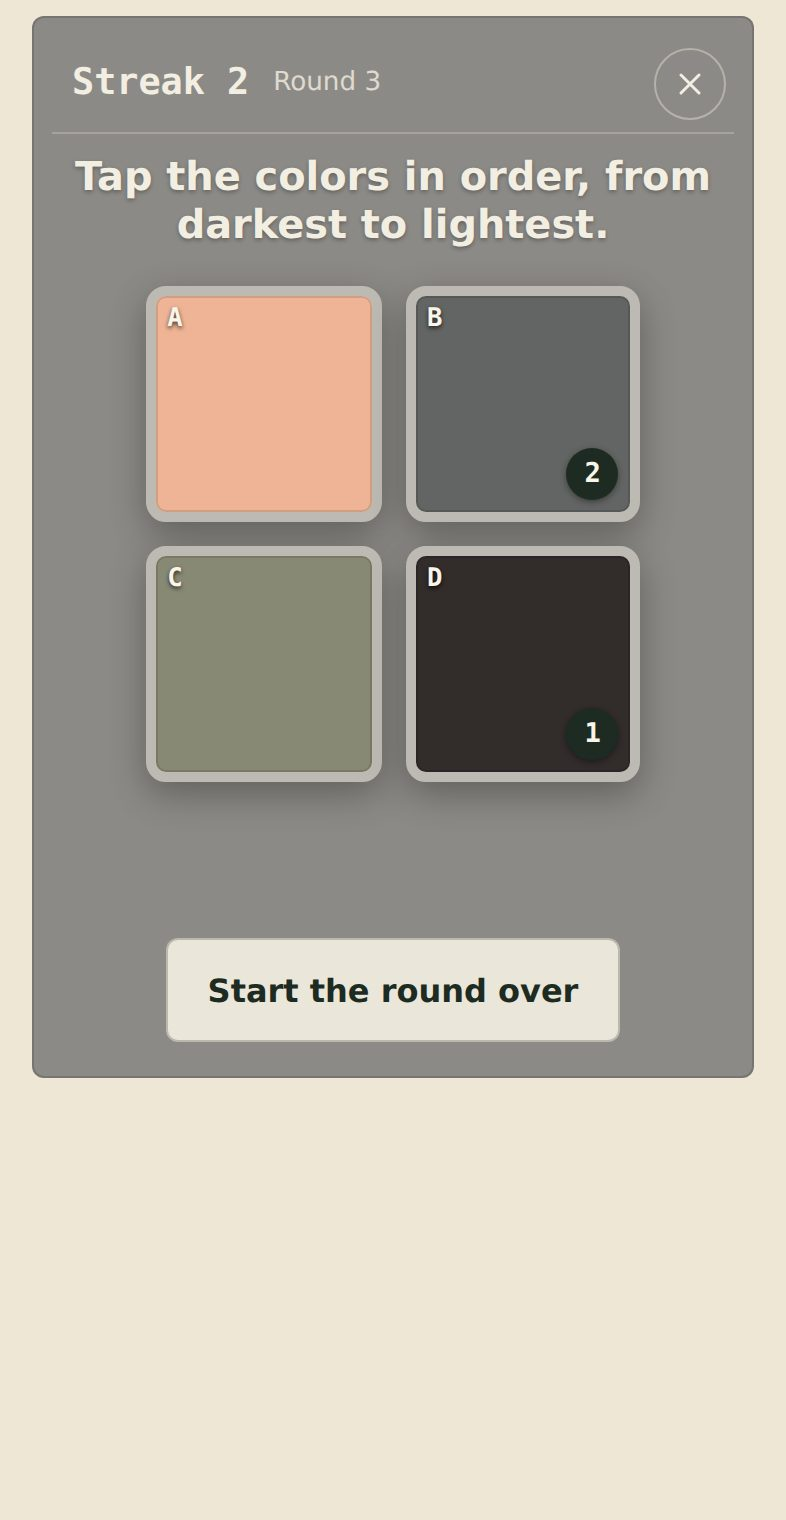
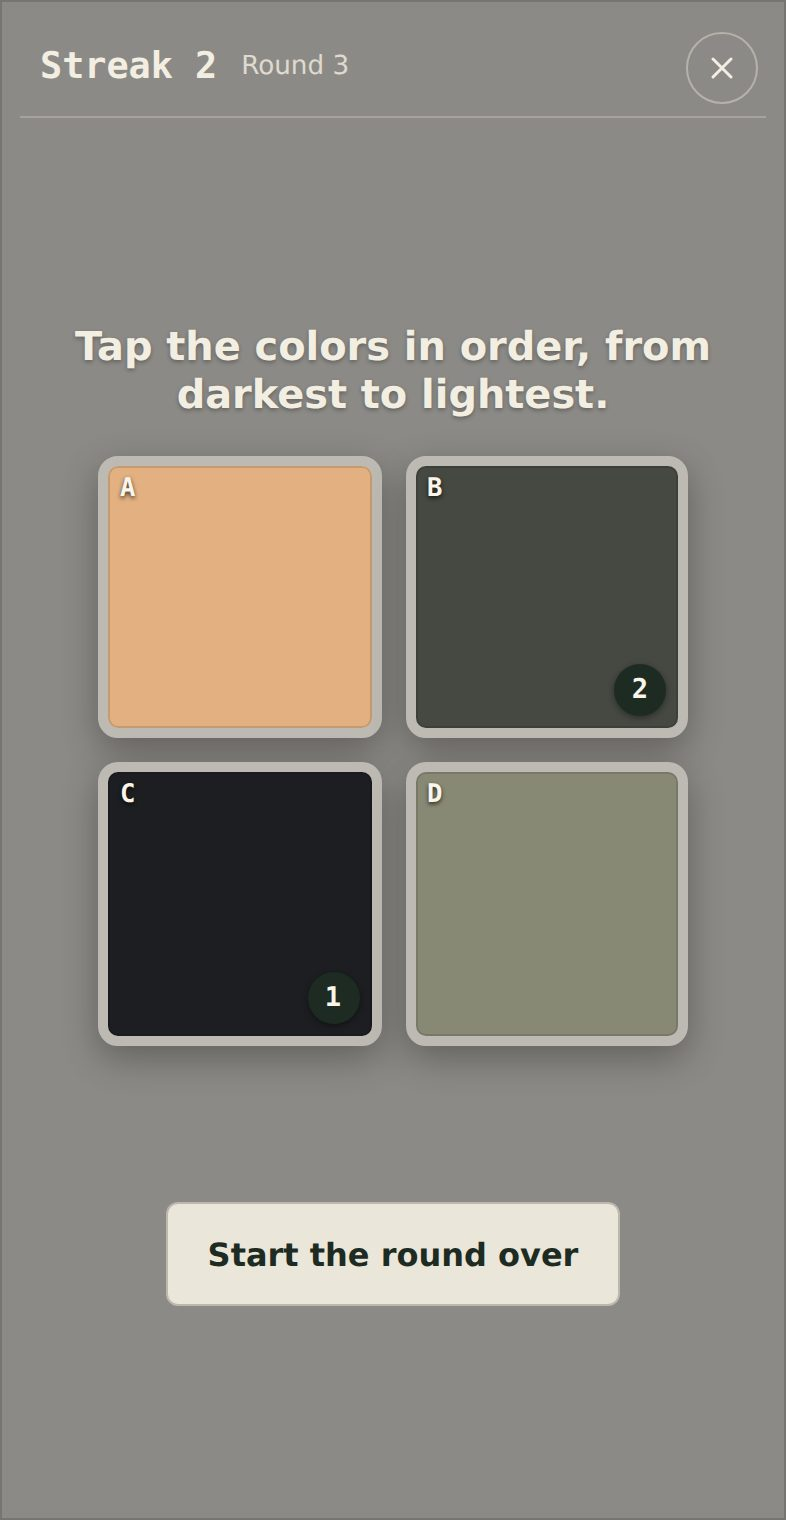
Value battle: pin the board to one screen while a game is on
The gray board now fills the phone screen (the window below the sections
on desktop) for every round, two to four colors alike, instead of growing
and shrinking with its content. Swatches get a height cap so a 2x2 round
fits on short phones. Guide screenshots retaken.

Claude-Session: https://claude.ai/code/session_01XVREo3r8Hxw4H8arPAzQN1

diff --git a/styles.css b/styles.css
@@ -1523,7 +1523,11 @@ output { font: 500 0.8rem var(--mono); color: var(--muted); font-variant-numeric
 /* ---- Value battle: one primer-gray board holds the bar, the colors and the answers ---- */
 .vb-about h3 { margin: 0; font: 700 1rem var(--display); }
 .vb-play { display: grid; max-width: 760px; margin-inline: auto; }
-.vb-board { position: relative; display: grid; grid-template-rows: auto 1fr; gap: 10px; min-height: min(72vh, 600px); padding: 10px 14px 18px; background: #8c8a86; border-radius: var(--r); box-shadow: inset 0 0 0 1px rgba(0, 0, 0, 0.15); }
+/* pinned while a game is on: the board fills one screen */
+.vb-play.is-pinned { position: fixed; left: 0; top: 0; z-index: 20; max-width: none; margin: 0; grid-template-rows: minmax(0, 1fr); }
+.vb-play.is-pinned .vb-board { min-height: 0; height: 100%; overflow: hidden; }
+.battle-focus { overflow: hidden; }
+.vb-board { position: relative; display: grid; grid-template-rows: auto minmax(0, 1fr); gap: 10px; min-height: min(72vh, 600px); padding: 10px 14px 18px; background: #8c8a86; border-radius: var(--r); box-shadow: inset 0 0 0 1px rgba(0, 0, 0, 0.15); }
 .vb-stage { display: grid; gap: 18px; justify-items: center; align-content: center; min-width: 0; }
 .vb-bar { justify-self: stretch; display: flex; align-items: center; gap: 12px; padding: 6px 4px 6px 10px; border-bottom: 1px solid rgba(243, 238, 226, 0.25); color: #f3eee2; }
 .vb-round { font: 700 1.15rem/1 var(--mono); font-variant-numeric: tabular-nums; }
@@ -1541,9 +1545,9 @@ output { font: 500 0.8rem var(--mono); color: var(--muted); font-variant-numeric
 .vb-swatches[data-count="3"] { grid-template-columns: repeat(3, auto); }
 .vb-swatches[data-count="4"] { grid-template-columns: repeat(2, auto); }
 @media (min-width: 640px) { .vb-swatches[data-count="4"] { grid-template-columns: repeat(4, auto); } }
-.vb-swatch { appearance: none; position: relative; width: clamp(110px, 32vw, 190px); height: clamp(110px, 32vw, 190px); border-radius: 10px; border: 5px solid #bdbab4; padding: 0; cursor: pointer; box-shadow: inset 0 0 0 1px rgba(0, 0, 0, 0.12), 0 6px 18px rgba(0, 0, 0, 0.3); transition: transform 0.12s; }
-.vb-swatches[data-count="3"] .vb-swatch { width: clamp(90px, 26vw, 170px); height: clamp(90px, 26vw, 170px); }
-.vb-swatches[data-count="4"] .vb-swatch { width: clamp(100px, 30vw, 140px); height: clamp(100px, 30vw, 140px); }
+.vb-swatch { appearance: none; position: relative; width: min(clamp(110px, 38vw, 190px), 30vh); height: min(clamp(110px, 38vw, 190px), 30vh); border-radius: 10px; border: 5px solid #bdbab4; padding: 0; cursor: pointer; box-shadow: inset 0 0 0 1px rgba(0, 0, 0, 0.12), 0 6px 18px rgba(0, 0, 0, 0.3); transition: transform 0.12s; }
+.vb-swatches[data-count="3"] .vb-swatch { width: min(clamp(90px, 28vw, 170px), 26vh); height: min(clamp(90px, 28vw, 170px), 26vh); }
+.vb-swatches[data-count="4"] .vb-swatch { width: min(clamp(100px, 36vw, 150px), 24vh); height: min(clamp(100px, 36vw, 150px), 24vh); }
 .vb-swatch:active { transform: scale(0.97); }
 .vb-swatch:focus-visible { outline: 3px solid #faf5ea; outline-offset: 4px; }
 .vb-swatch.is-answer { border-color: #d9a441; box-shadow: inset 0 0 0 1px rgba(0, 0, 0, 0.12), 0 0 0 3px #d9a441, 0 6px 18px rgba(0, 0, 0, 0.3); }
@@ -1578,4 +1582,5 @@ output { font: 500 0.8rem var(--mono); color: var(--muted); font-variant-numeric
 .vb-choice.is-pulse { animation: vb-pulse-btn 0.3s ease-out; }
 @media (max-width: 999px) {
   .vb-board { min-height: 60vh; padding-inline: 10px; }
+  .vb-play.is-pinned .vb-board { border-radius: 0; padding-bottom: calc(14px + env(safe-area-inset-bottom, 0px)); }
 }

diff --git a/js/battle.js b/js/battle.js
@@ -425,7 +425,19 @@
     quitArmed = 0;
     els.settings.click();
   });
-  function setFocus(on) { document.body.classList.toggle('battle-focus', on); if (on) window.scrollTo(0, 0); }
+  // While a game is on, the board is pinned to the screen the Studio's way: the whole visual
+  // viewport on a phone, the window below the tabs on a wide screen. So it always fills one
+  // screen, whatever a round holds.
+  function setFocus(on) {
+    document.body.classList.toggle('battle-focus', on);
+    els.play.classList.toggle('is-pinned', on);
+    if (on) { window.scrollTo(0, 0); layout(); setTimeout(layout, 120); }
+    else els.play.style.cssText = '';
+  }
+  function layout() { if (!game || els.play.hidden || !window.PaintStudio) return; PaintStudio.pin(els.play); }
+  window.addEventListener('resize', layout);
+  window.addEventListener('orientationchange', () => setTimeout(layout, 60));
+  if (window.visualViewport) { visualViewport.addEventListener('resize', layout); visualViewport.addEventListener('scroll', layout); }
 
   // the Paint by numbers "spot on" chime for a right answer
   function ding() { if (window.GameSound) GameSound.chime(); }
@@ -433,7 +445,7 @@
   els.start.addEventListener('click', start);
   window.addEventListener('studio:tab', (e) => {
     const on = e.detail === 'battle';
-    setFocus(on && !!game && !game.over);
+    setFocus(on && !!game);
     if (on && !game) renderSetup();
   });
   if (Studio.tab() === 'battle') renderSetup();

diff --git a/README.md b/README.md
@@ -104,7 +104,7 @@ The score is out of 1,200. Color accuracy gives up to 1,000: each number scores 
 
 ### Value battle
 
-The second game, under Games, trains the eye. Two, three or four colors mixed from the chosen palette (two or three of its paints with some white, in random parts) sit as squares with gray borders on a primer-gray board. With two, a question asks which is darker in value, lighter in value, cooler in tone or warmer in tone: tap the color (or use the arrow keys), or press the one button that says both are the same. Everything lives on the board: the streak, round and clock along its top with the quit button, the colors, the answer line, and the answer row below the colors. With three or four, the swatches are lettered and the question is answered on them: tap the color with the darkest value, tap the lightest, or tap them in order from darkest to lightest (each tap numbers a swatch; Start the round over clears them). The setup chooses two, three, four or a mix. The rounds keep coming, each a little harder than the last. In **Streak** mode the first miss ends the game and the score is the streak, counted up in the bar with a flourish every five. On the **clock** (1, 2 or 5 minutes) the score is how many were right before time ran out; a right answer moves on by itself, and a miss only costs the time it takes to read the answer, since the clock pauses while it is shown. Either way a miss pops up the right answer in words, with the colors laid out in order (darkest to lightest for a value question) and their values or leans under them. Value is lightness (L*), shown on the Study tab's 0 to 10 value scale; temperature is the hue, measured as how far it sits from the warmest hue (orange), so a color leaning toward orange and yellow is warm and one leaning toward blue is cool, and colors too gray to have a temperature never get a temperature question. How far apart the colors are follows the round: the first round is easy (at least 14 L* apart in value, or clearly different in temperature, with 12 L* between neighbours in a three- or four-color round), by round 24 it is a hair apart (2.5 to 6 L*, a few degrees of hue, 3.5 L* between neighbours), and it keeps closing in after that, down to a floor the eye can still tell apart. Some rounds are a tie, paired so the colors really are the same in what is asked (equal value but different colors, or the same lean but different values), and Both the same is the right answer. Every tap pulses the swatch or button and clicks like a key on the Paint by numbers palette, a right answer gets that game's chime, and the game's sound switch covers both. After each answer a line explains it with the values or the leans. When the streak ends the score pops up as in Paint by numbers, with stars by the streak (five at 20, four at 12, three at 8, two at 5, one at 2) or, on the clock, by right answers a minute (five at 10, four at 7, three at 5, two at 3, one at 1), and the best for each palette, color count and mode kept in the browser.
+The second game, under Games, trains the eye. Two, three or four colors mixed from the chosen palette (two or three of its paints with some white, in random parts) sit as squares with gray borders on a primer-gray board. With two, a question asks which is darker in value, lighter in value, cooler in tone or warmer in tone: tap the color (or use the arrow keys), or press the one button that says both are the same. Everything lives on the board: the streak, round and clock along its top with the quit button, the colors, the answer line, and the answer row below the colors. While a game is on, the board is pinned to the screen like the Studio's paper, so it always fills one phone screen (and the window below the sections on a wide screen) whatever the round holds, and the colors are sized to fit. With three or four, the swatches are lettered and the question is answered on them: tap the color with the darkest value, tap the lightest, or tap them in order from darkest to lightest (each tap numbers a swatch; Start the round over clears them). The setup chooses two, three, four or a mix. The rounds keep coming, each a little harder than the last. In **Streak** mode the first miss ends the game and the score is the streak, counted up in the bar with a flourish every five. On the **clock** (1, 2 or 5 minutes) the score is how many were right before time ran out; a right answer moves on by itself, and a miss only costs the time it takes to read the answer, since the clock pauses while it is shown. Either way a miss pops up the right answer in words, with the colors laid out in order (darkest to lightest for a value question) and their values or leans under them. Value is lightness (L*), shown on the Study tab's 0 to 10 value scale; temperature is the hue, measured as how far it sits from the warmest hue (orange), so a color leaning toward orange and yellow is warm and one leaning toward blue is cool, and colors too gray to have a temperature never get a temperature question. How far apart the colors are follows the round: the first round is easy (at least 14 L* apart in value, or clearly different in temperature, with 12 L* between neighbours in a three- or four-color round), by round 24 it is a hair apart (2.5 to 6 L*, a few degrees of hue, 3.5 L* between neighbours), and it keeps closing in after that, down to a floor the eye can still tell apart. Some rounds are a tie, paired so the colors really are the same in what is asked (equal value but different colors, or the same lean but different values), and Both the same is the right answer. Every tap pulses the swatch or button and clicks like a key on the Paint by numbers palette, a right answer gets that game's chime, and the game's sound switch covers both. After each answer a line explains it with the values or the leans. When the streak ends the score pops up as in Paint by numbers, with stars by the streak (five at 20, four at 12, three at 8, two at 5, one at 2) or, on the clock, by right answers a minute (five at 10, four at 7, three at 5, two at 3, one at 1), and the best for each palette, color count and mode kept in the browser.
 
 ### How close did I get? (Check my painting)
 
